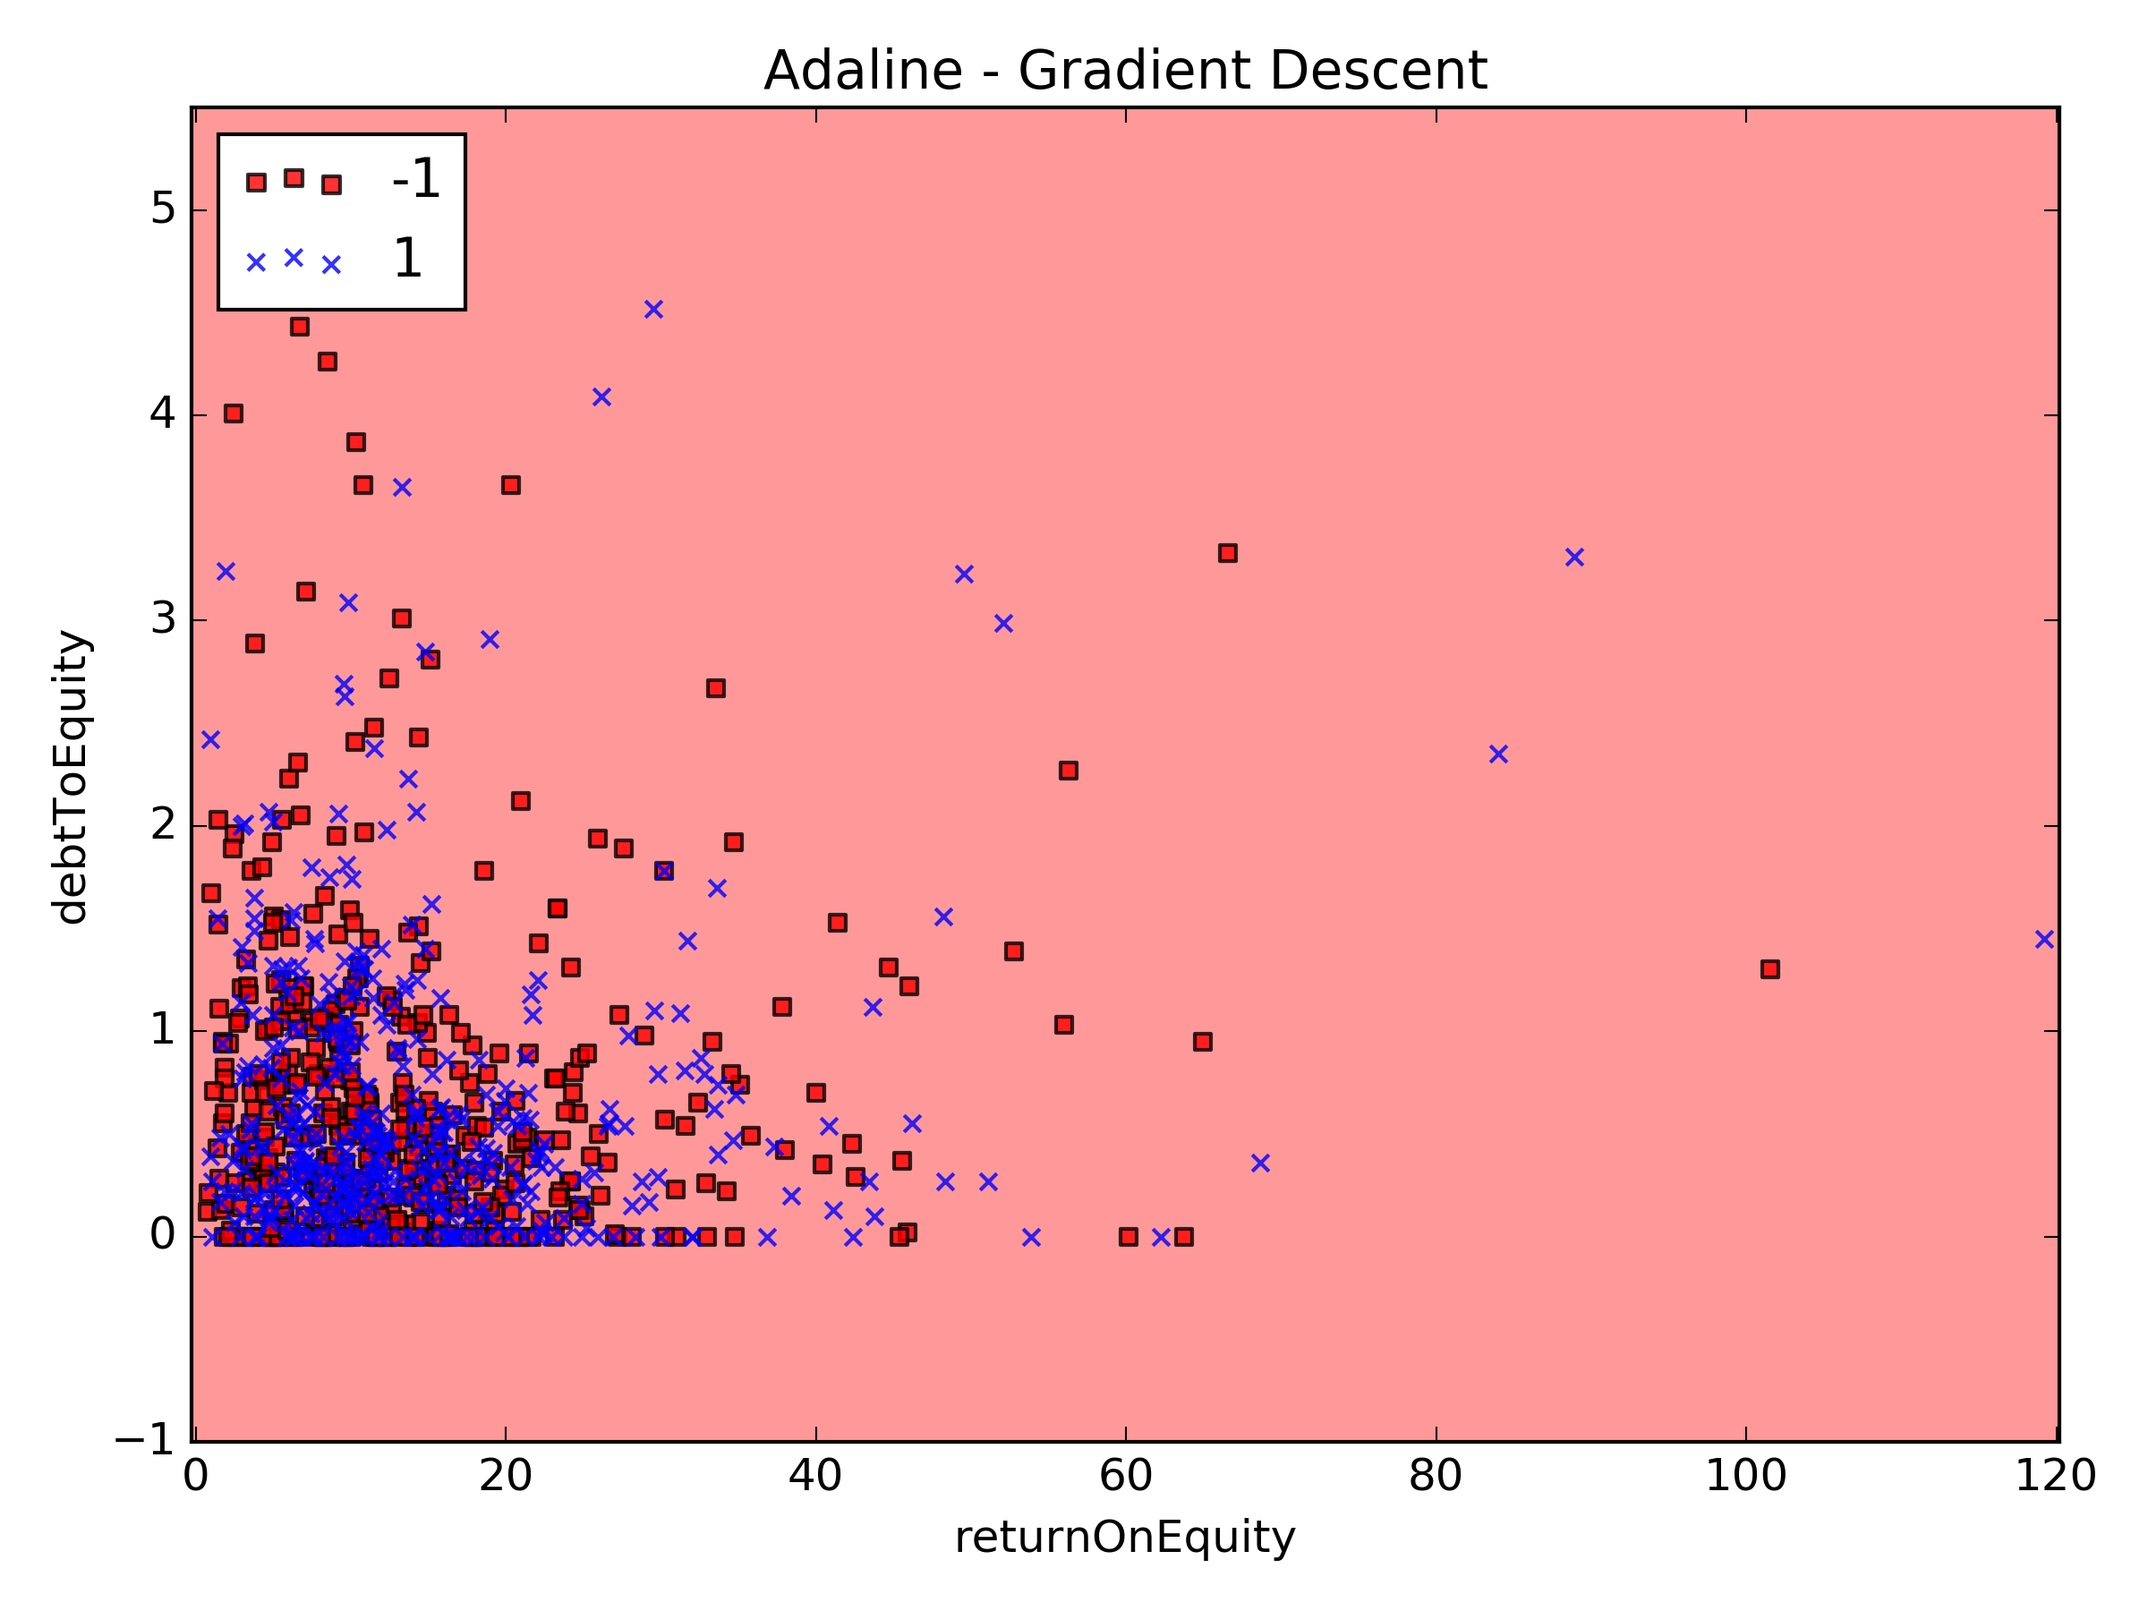
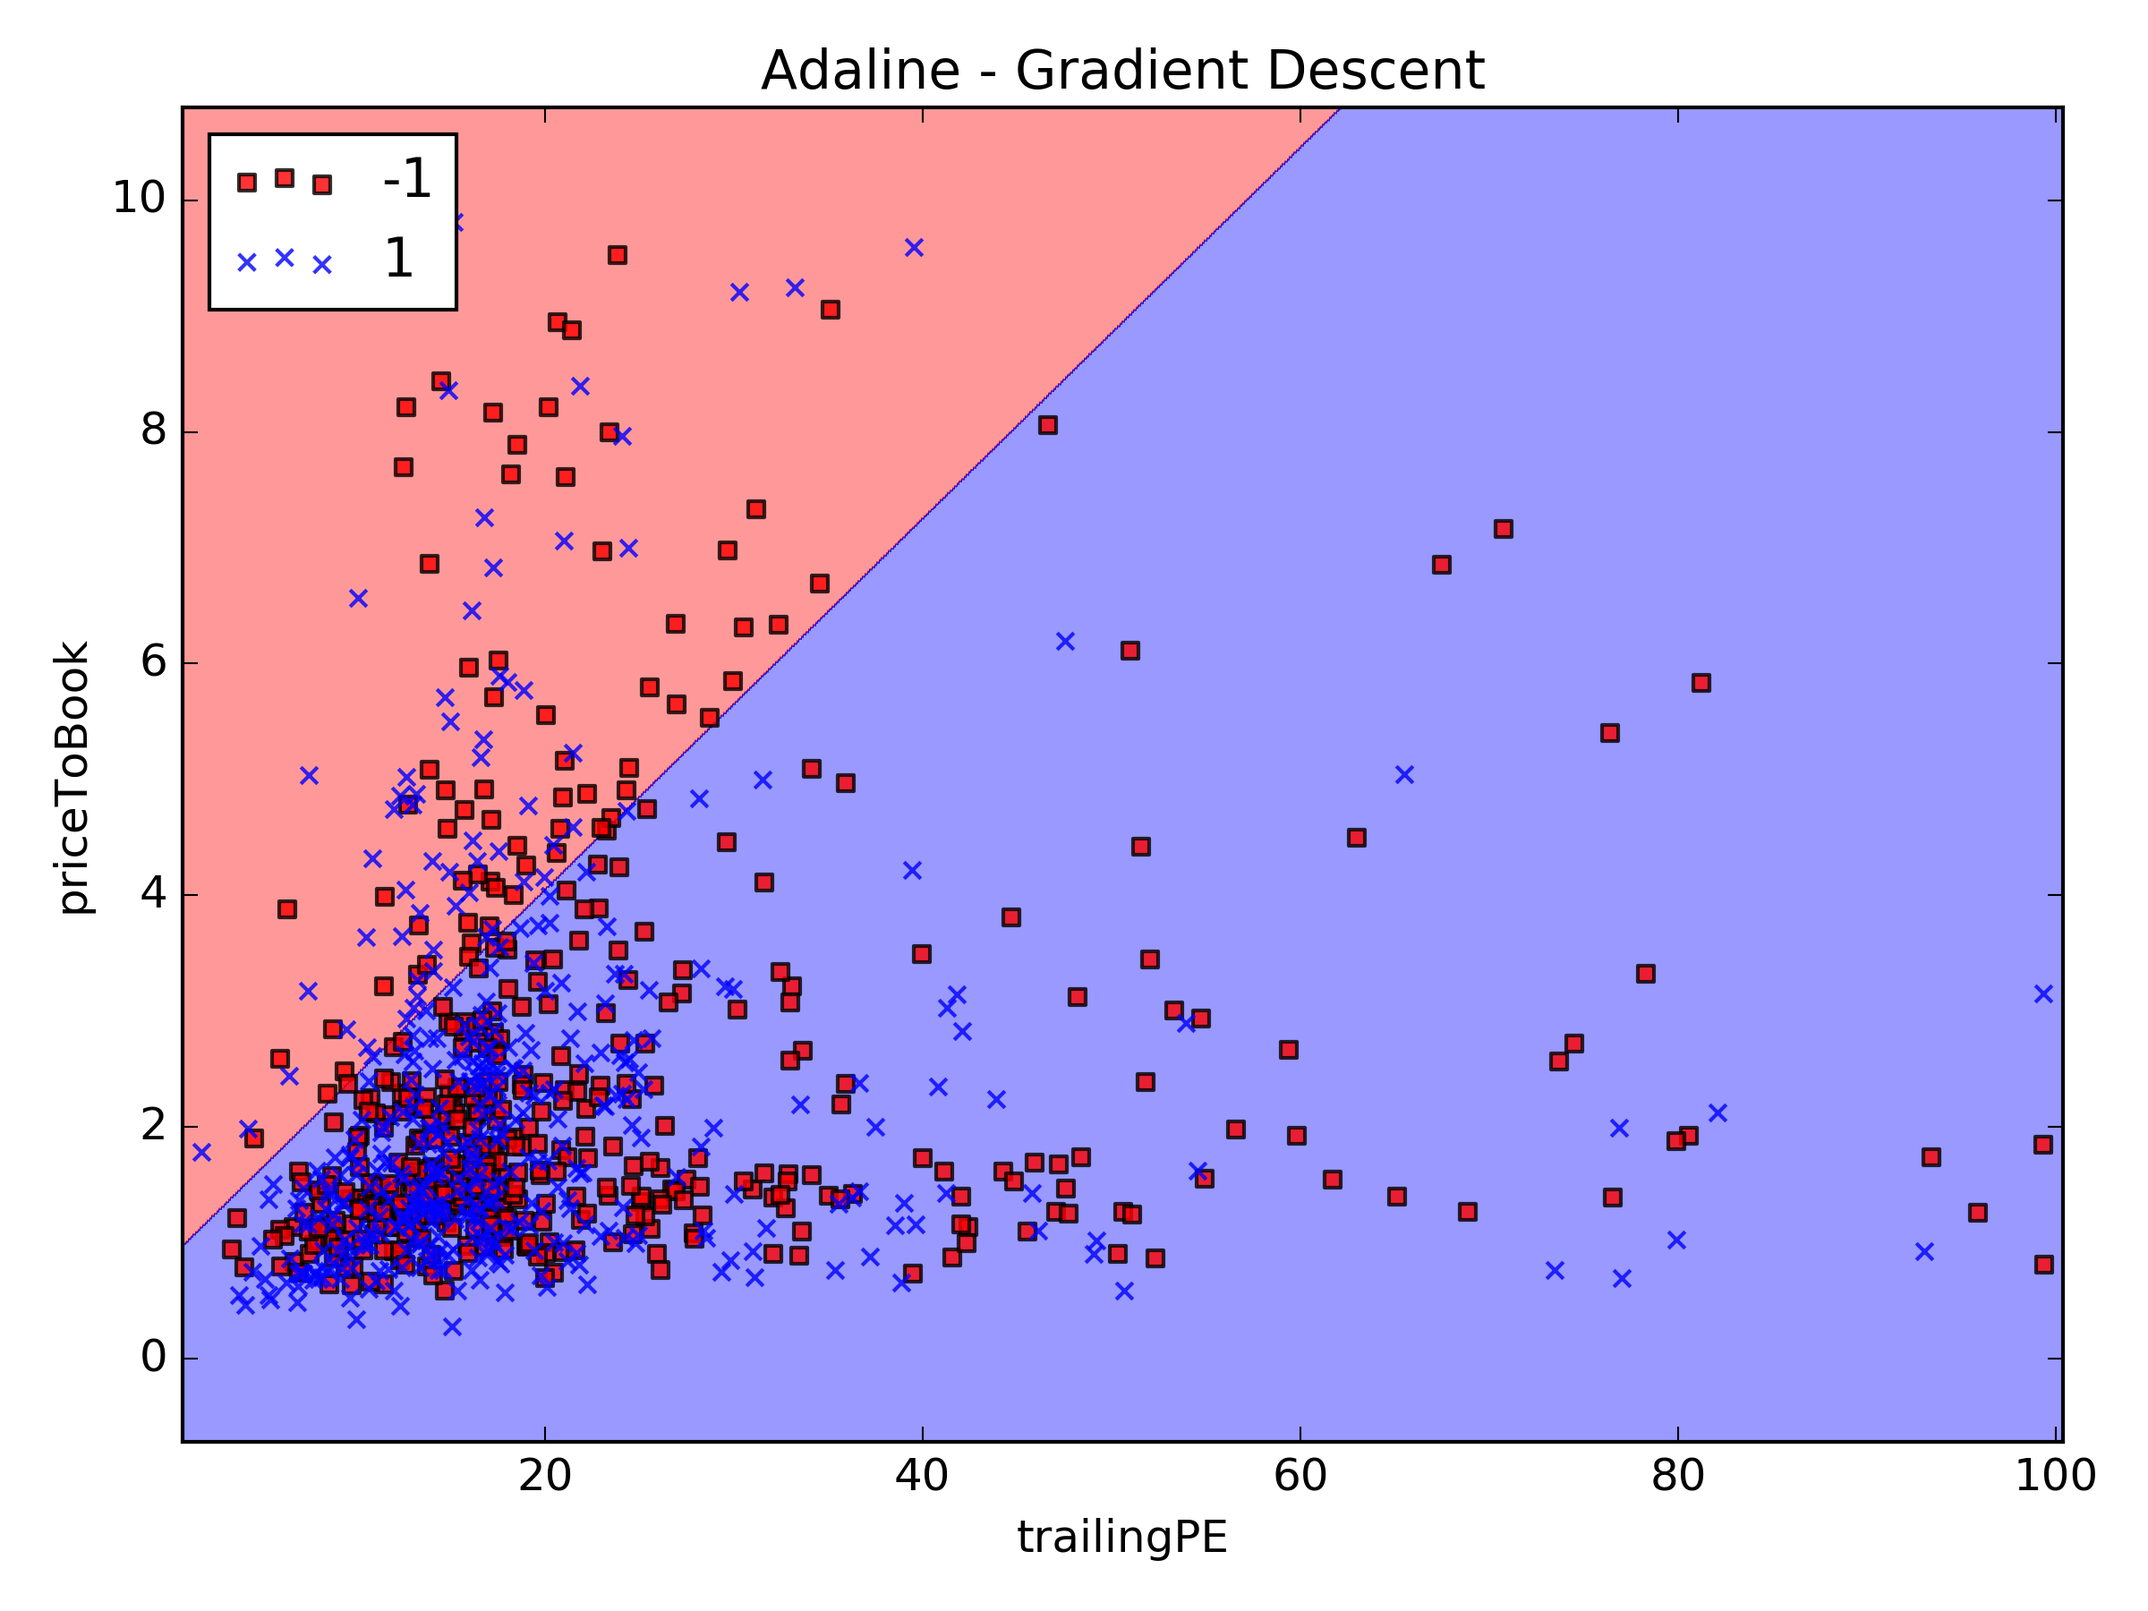
need to keep pushing with the ML

diff --git a/app/equity/ml_eqs/ml_algorithms.py b/app/equity/ml_eqs/ml_algorithms.py
@@ -1,0 +1,200 @@
+import sys
+sys.path.append("/home/ubuntu/workspace/finance")
+import matplotlib as mpl
+mpl.use('Agg')
+import matplotlib.pyplot as plt
+import datetime, pdb, time
+import numpy as np
+import pandas as pd
+from sklearn.cross_validation import train_test_split
+from sklearn.linear_model import LogisticRegression
+from sklearn.preprocessing import Imputer, LabelEncoder, OneHotEncoder, MinMaxScaler, StandardScaler
+from app.equity.ml_eqs.perceptron import Perceptron
+from app.equity.ml_eqs.adalinegd import AdalineGD
+from app.equity.ml_eqs.adalinesgd import AdalineSGD
+from app.equity.ml_eqs.ml_utils import plot_decision_regions
+
+IMG_PATH = '/home/ubuntu/workspace/finance/app/static/img/ml_imgs/'
+
+def run_perceptron(df, eta=0.1, n_iter=10):
+    ''' Takes the pruned dataframe and runs it through the perceptron class
+    
+        Parameters
+        ==========
+        df : dataframe
+            dataframe with the inputs and target
+        eta : float
+            learning rate between 0 and 1
+        n_iter : int
+            passes over the training dataset
+        
+        Return
+        ======
+        NONE
+    '''
+    t0 = time.time()
+    y = df['target']
+    X = df[['divYield','priceToBook']]
+    buy = df[df['target'] > 0][list(X.columns)].values
+    sell = df[df['target'] < 0][list(X.columns)].values
+    plt.figure(figsize=(7,4))
+    plt.scatter(buy[:, 0], buy[:, 1], color='blue', marker='x', label='Buy')
+    plt.scatter(sell[:, 0], sell[:, 1], color='red', marker='s', label='Sell')
+    plt.xlabel(list(X.columns)[0])
+    plt.ylabel(list(X.columns)[1])
+    plt.legend()
+    ppn = Perceptron(eta, n_iter)
+    ppn.fit(X.values, y.values)
+    # pdb.set_trace()
+    plot_decision_regions(X.values, y.values, classifier=ppn)
+    plt.savefig(IMG_PATH + "scatter.png")
+    plt.close()
+    
+    plt.plot(range(1,len(ppn.errors_) + 1), ppn.errors_,marker='o')
+    plt.xlabel('Iterations')
+    plt.ylabel('Number of misclassifications')
+    plt.savefig(IMG_PATH + "misclassifications.png")
+    plt.close()
+    
+    t1 = time.time()
+    app.logger.info("Done training data and creating charts, took {0} seconds".format(t1-t0))
+    print("Done training data and creating charts, took {0} seconds".format(t1-t0))
+
+def adalinegdLearningExample(df, eta=0.1, n_iter=10):
+    # Learning rate too high - overshoot global min
+    y = df['target']
+    X = df[['trailingPE','priceToBook']]
+    fig, ax = plt.subplots(nrows=1, ncols=2, figsize=(8, 4))
+    ada1 = AdalineGD(n_iter=20, eta=0.01).fit(X, y)
+    ax[0].plot(range(1, len(ada1.cost_) + 1), np.log10(ada1.cost_), marker='o')
+    ax[0].set_xlabel('Epochs')
+    ax[0].set_ylabel('log(Sum-squared-error)')
+    ax[0].set_title('Adaline - Learning rate 0.01')
+    
+    # Learning rate too low - takes forever
+    ada2 = AdalineGD(n_iter=20, eta=0.0001).fit(X, y)
+    ax[1].plot(range(1, len(ada2.cost_) + 1), ada2.cost_, marker='o')
+    ax[1].set_xlabel('Epochs')
+    ax[1].set_ylabel('Sum-squared-error')
+    ax[1].set_title('Adaline - Learning rate 0.0001')
+    
+    plt.tight_layout()
+    plt.savefig(IMG_PATH + "adaline_1.png", dpi=300)
+    plt.close()
+    # plt.show()
+    
+def adalineSGD(df, eta=0.1, n_iter=10):
+    y = df['target']
+    X = df[['trailingPE','priceToBook']]
+    
+    # standardize features
+    X_std = np.copy(X.values)
+    # X_std[:,0] = (X.values[:,0] - X.values[:,0].mean()) / X.values[:,0].std()
+    # X_std[:,1] = (X.values[:,1] - X.values[:,1].mean()) / X.values[:,1].std()
+    
+    ada = AdalineSGD(n_iter=15, eta=0.001, random_state=1)
+    # pdb.set_trace()
+    ada.fit(X_std, y.values)
+    # pdb.set_trace()
+    # ada.partial_fit(X_std, y.values)
+    
+    plot_decision_regions(X_std, y.values, classifier=ada)
+    plt.title('Adaline - Gradient Descent')
+    plt.xlabel(list(X.columns)[0])
+    plt.ylabel(list(X.columns)[1])
+    plt.legend(loc='upper left')
+    plt.tight_layout()
+    plt.savefig(IMG_PATH + 'adalinesgd.png', dpi=300)
+    plt.close()
+    
+    plt.plot(range(1, len(ada.cost_) + 1), ada.cost_, marker='o')
+    plt.xlabel('Epochs')
+    plt.ylabel('Sum-squared-error')
+    plt.tight_layout()
+    plt.savefig(IMG_PATH + 'adalinesgd_gd.png', dpi=300)
+    plt.close()
+
+def adalineGD(df, eta=0.1, n_iter=10):
+    y = df['target']
+    X = df[['returnOnEquity','debtToEquity']]
+    
+    # standardize features
+    X_std = np.copy(X.values)
+    # X_std[:,0] = (X.values[:,0] - X.values[:,0].mean()) / X.values[:,0].std()
+    # X_std[:,1] = (X.values[:,1] - X.values[:,1].mean()) / X.values[:,1].std()
+    
+    ada = AdalineGD(n_iter=15, eta=0.00001)
+    ada.fit(X_std, y)
+    
+    plot_decision_regions(X_std, y.values, classifier=ada)
+    plt.title('Adaline - Gradient Descent')
+    plt.xlabel(list(X.columns)[0])
+    plt.ylabel(list(X.columns)[1])
+    plt.legend(loc='upper left')
+    plt.tight_layout()
+    plt.savefig(IMG_PATH + 'adaline_2.png', dpi=300)
+    plt.close()
+    
+    plt.plot(range(1, len(ada.cost_) + 1), ada.cost_, marker='o')
+    plt.xlabel('Epochs')
+    plt.ylabel('Sum-squared-error')
+    plt.tight_layout()
+    plt.savefig(IMG_PATH + 'adaline_3.png', dpi=300)
+    plt.close()
+    
+def logisticRegression(df):
+    y = df['target']
+    X = df[['returnOnEquity','debtToEquity', 'divYield', 'freeCashFlowPerShare']]
+    X_train, X_test, y_train, y_test = \
+          train_test_split(X, y, test_size=0.3, random_state=0)
+    
+    # Normalization of the data
+    mms = MinMaxScaler()
+    X_train_norm = mms.fit_transform(X_train)
+    X_test_norm = mms.transform(X_test)
+    
+    # Standardization of the data
+    stdsc = StandardScaler()
+    X_train_std = stdsc.fit_transform(X_train)
+    X_test_std = stdsc.transform(X_test)
+    
+    lr = LogisticRegression(penalty='l1', C=0.1)
+    lr.fit(X_train_std, y_train)
+    print('Training accuracy:', lr.score(X_train_std, y_train))
+    print('Test accuracy:', lr.score(X_test_std, y_test))
+    print(lr.intercept_)
+    print(lr.coef_)
+    
+    fig = plt.figure()
+    ax = plt.subplot(111)
+      
+    colors = ['blue', 'green', 'red', 'cyan', 
+           'magenta', 'yellow', 'black', 
+            'pink', 'lightgreen', 'lightblue', 
+            'gray', 'indigo', 'orange']
+    
+    pdb.set_trace()
+    weights, params = [], []
+    for c in np.arange(-4, 6):
+      lr = LogisticRegression(penalty='l1', C=10**c, random_state=0)
+      lr.fit(X_train_std, y_train)
+      weights.append(lr.coef_[0])
+      params.append(10**c)
+    
+    weights = np.array(weights)
+    
+    for column, color in zip(range(weights.shape[1]), colors):
+        plt.plot(params, weights[:, column],
+               label=df.columns[column+1],
+               color=color)
+    plt.axhline(0, color='black', linestyle='--', linewidth=3)
+    plt.xlim([10**(-5), 10**5])
+    plt.ylabel('weight coefficient')
+    plt.xlabel('C')
+    plt.xscale('log')
+    plt.legend(loc='upper left')
+    ax.legend(loc='upper center', 
+            bbox_to_anchor=(1.38, 1.03),
+            ncol=1, fancybox=True)
+    plt.savefig(IMG_PATH + 'l1_path.png', dpi=300)
+    plt.close()

diff --git a/app/equity/ml_eqs/run_ml.py b/app/equity/ml_eqs/run_ml.py
@@ -8,17 +8,11 @@ import numpy as np
 import pandas as pd
 from app import app
 from app.utils.helper_funcs import timeme
-from app.equity.screener_eqs.equity_screener import get_data
-from app.equity.screener_eqs.equity_stats import EquityStats, ES_Dataframe
 from app.equity.analysis_eqs.utils_analysis import loadDataToDB, getKeyStatsDataFrame
 from app.equity.data_grab import ms_dg_helper
 from app.utils.db_utils import DBHelper
-from app.equity.ml_eqs.perceptron import Perceptron
-from app.equity.ml_eqs.adalinegd import AdalineGD
-from app.equity.ml_eqs.adalinesgd import AdalineSGD
-from app.equity.ml_eqs.ml_utils import plot_decision_regions
+from app.equity.ml_eqs.ml_algorithms import *
 
-IMG_PATH = '/home/ubuntu/workspace/finance/app/static/img/ml_imgs/'
 
 def run(inputs, load_data=False):
     if load_data:
@@ -38,10 +32,7 @@ def run(inputs, load_data=False):
     df = cleanData(df)
     df = selectInputs(df, inputs)
 
-    # Run Perceptron
-    # run_perceptron(df)
-    timeme(run_adalinesgd)(df)
-
+    timeme(logisticRegression)(df)
 
 def selectInputs(df, inputs):
     columns = inputs + ['target'] + ['target_proxy']
@@ -84,141 +75,15 @@ def cleanData(df):
     df = df[df['divYield'] >= 0]
     
     # Temp for training purposes
-    df = df[abs(df['trailingPE']) < 200]
-    df = df[abs(df['priceToBook']) < 10]
+    df = df[abs(df['trailingPE']) < 100]
+    df = df[abs(df['priceToBook']) < 5]
     df = df[df['trailingPE'] > 0]
     df = df[df['divYield'] > 0]
     df = df[df['debtToEquity'] < 5]
+    df = df[df['freeCashFlowPerShare'] > 0]
+    # pdb.set_trace()
     return df
-
-def run_perceptron(df, eta=0.1, n_iter=10):
-    ''' Takes the pruned dataframe and runs it through the perceptron class
-    
-        Parameters
-        ==========
-        df : dataframe
-            dataframe with the inputs and target
-        eta : float
-            learning rate between 0 and 1
-        n_iter : int
-            passes over the training dataset
-        
-        Return
-        ======
-        NONE
-    '''
-    t0 = time.time()
-    y = df['target']
-    X = df[['divYield','priceToBook']]
-    buy = df[df['target'] > 0][list(X.columns)].values
-    sell = df[df['target'] < 0][list(X.columns)].values
-    plt.figure(figsize=(7,4))
-    plt.scatter(buy[:, 0], buy[:, 1], color='blue', marker='x', label='Buy')
-    plt.scatter(sell[:, 0], sell[:, 1], color='red', marker='s', label='Sell')
-    plt.xlabel(list(X.columns)[0])
-    plt.ylabel(list(X.columns)[1])
-    plt.legend()
-    ppn = Perceptron(eta, n_iter)
-    ppn.fit(X.values, y.values)
-    # pdb.set_trace()
-    plot_decision_regions(X.values, y.values, classifier=ppn)
-    plt.savefig(IMG_PATH + "scatter.png")
-    plt.close()
-    
-    plt.plot(range(1,len(ppn.errors_) + 1), ppn.errors_,marker='o')
-    plt.xlabel('Iterations')
-    plt.ylabel('Number of misclassifications')
-    plt.savefig(IMG_PATH + "misclassifications.png")
-    plt.close()
-    
-    t1 = time.time()
-    app.logger.info("Done training data and creating charts, took {0} seconds".format(t1-t0))
-    print("Done training data and creating charts, took {0} seconds".format(t1-t0))
-
-def run_adalinegd_lr_example(df, eta=0.1, n_iter=10):
-    # Learning rate too high - overshoot global min
-    y = df['target']
-    X = df[['trailingPE','priceToBook']]
-    fig, ax = plt.subplots(nrows=1, ncols=2, figsize=(8, 4))
-    ada1 = AdalineGD(n_iter=20, eta=0.01).fit(X, y)
-    ax[0].plot(range(1, len(ada1.cost_) + 1), np.log10(ada1.cost_), marker='o')
-    ax[0].set_xlabel('Epochs')
-    ax[0].set_ylabel('log(Sum-squared-error)')
-    ax[0].set_title('Adaline - Learning rate 0.01')
-    
-    # Learning rate too low - takes forever
-    ada2 = AdalineGD(n_iter=20, eta=0.0001).fit(X, y)
-    ax[1].plot(range(1, len(ada2.cost_) + 1), ada2.cost_, marker='o')
-    ax[1].set_xlabel('Epochs')
-    ax[1].set_ylabel('Sum-squared-error')
-    ax[1].set_title('Adaline - Learning rate 0.0001')
-    
-    plt.tight_layout()
-    plt.savefig(IMG_PATH + "adaline_1.png", dpi=300)
-    plt.close()
-    # plt.show()
-    
-def run_adalinesgd(df, eta=0.1, n_iter=10):
-    y = df['target']
-    X = df[['returnOnEquity','trailingPE']]
-    
-    # standardize features
-    X_std = np.copy(X.values)
-    # X_std[:,0] = (X.values[:,0] - X.values[:,0].mean()) / X.values[:,0].std()
-    # X_std[:,1] = (X.values[:,1] - X.values[:,1].mean()) / X.values[:,1].std()
-    
-    ada = AdalineSGD(n_iter=15, eta=0.001, random_state=1)
-    # pdb.set_trace()
-    # ada.fit(X_std, y.values)
-    pdb.set_trace()
-    ada.partial_fit(X_std, y.values)
-    
-    plot_decision_regions(X_std, y.values, classifier=ada)
-    plt.title('Adaline - Gradient Descent')
-    plt.xlabel(list(X.columns)[0])
-    plt.ylabel(list(X.columns)[1])
-    plt.legend(loc='upper left')
-    plt.tight_layout()
-    plt.savefig(IMG_PATH + 'adalinesgd.png', dpi=300)
-    plt.close()
-    
-    plt.plot(range(1, len(ada.cost_) + 1), ada.cost_, marker='o')
-    plt.xlabel('Epochs')
-    plt.ylabel('Sum-squared-error')
-    plt.tight_layout()
-    plt.savefig(IMG_PATH + 'adalinesgd_gd.png', dpi=300)
-    plt.close()
-
-
-def run_adalinegd(df, eta=0.1, n_iter=10):
-    y = df['target']
-    X = df[['returnOnEquity','debtToEquity']]
-    
-    # standardize features
-    X_std = np.copy(X.values)
-    # X_std[:,0] = (X.values[:,0] - X.values[:,0].mean()) / X.values[:,0].std()
-    # X_std[:,1] = (X.values[:,1] - X.values[:,1].mean()) / X.values[:,1].std()
-    
-    ada = AdalineGD(n_iter=15, eta=0.00001)
-    ada.fit(X_std, y)
-    
-    plot_decision_regions(X_std, y.values, classifier=ada)
-    plt.title('Adaline - Gradient Descent')
-    plt.xlabel(list(X.columns)[0])
-    plt.ylabel(list(X.columns)[1])
-    plt.legend(loc='upper left')
-    plt.tight_layout()
-    plt.savefig(IMG_PATH + 'adaline_2.png', dpi=300)
-    plt.close()
-    
-    plt.plot(range(1, len(ada.cost_) + 1), ada.cost_, marker='o')
-    plt.xlabel('Epochs')
-    plt.ylabel('Sum-squared-error')
-    plt.tight_layout()
-    plt.savefig(IMG_PATH + 'adaline_3.png', dpi=300)
-    plt.close()
-
 
 if __name__ == "__main__":
     run(['trailingPE', 'priceToBook', 'priceToSales', 'divYield', 'debtToEquity',
-        'returnOnEquity', 'netIncomeMargin'])
+        'returnOnEquity', 'netIncomeMargin', 'freeCashFlowPerShare'])

diff --git a/app/equity/ml_eqs/adalinesgd.py b/app/equity/ml_eqs/adalinesgd.py
@@ -6,7 +6,9 @@ import matplotlib.pyplot as plt
 import numpy as np
 from numpy.random import seed
 from app.equity.ml_eqs.ml_utils import update_check
-    
+
+IMG_PATH = '/home/ubuntu/workspace/finance/app/static/img/ml_imgs/'
+
 class AdalineSGD(object):
     """ADAptive LInear NEuron classifier.
 
